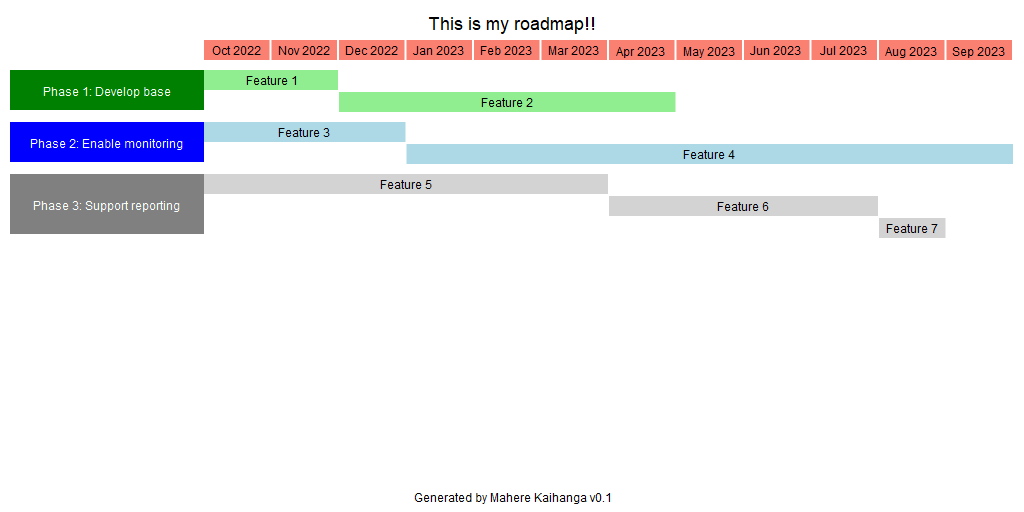
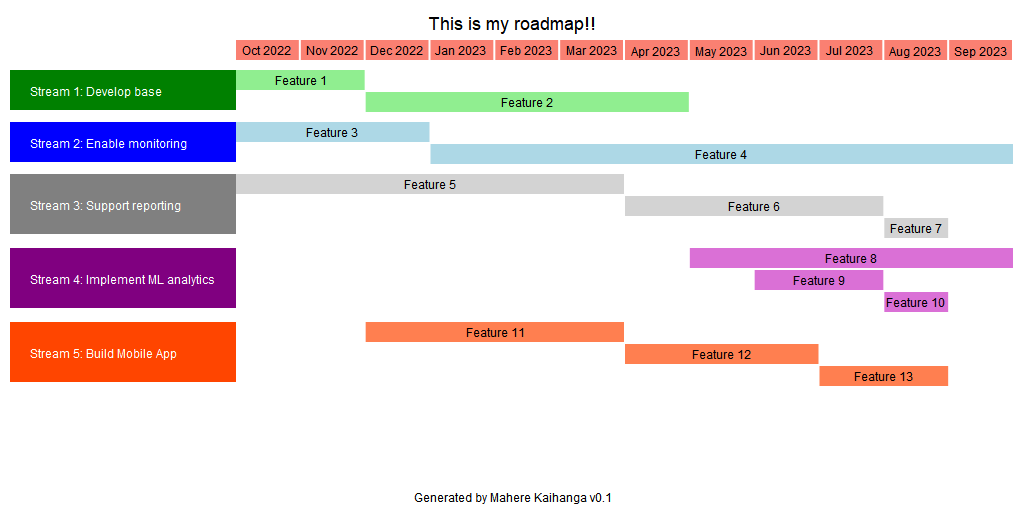
Make group text align to left by default

diff --git a/MahereKaihanga.py b/MahereKaihanga.py
@@ -188,7 +188,7 @@ class MahereKaihanga():
 
         """ To do
         Done (1) Display task text on top of bar
-        (2) Display group text as a block
+        Done (2) Display group text as a block
         (3) Show milestones
         (4) Proporsion task bar according to the start and end date
         """
@@ -204,18 +204,28 @@ if __name__ == "__main__":
     x.Title = "This is my roadmap!!"
 
     x.Tasks = [
-                {"group": "Phase 1: Develop base", "colour": "green", "tasks": [
+                {"group": "Stream 1: Develop base", "colour": "green", "tasks": [
                     {"task": "Feature 1", "start": datetime.datetime(2022, 10, 24), "end": datetime.datetime(2022, 11, 24), "colour": "lightgreen"},
                     {"task": "Feature 2", "start": datetime.datetime(2022, 12, 24), "end": datetime.datetime(2023, 4, 24), "colour": "lightgreen"}
                     ]},
-                {"group": "Phase 2: Enable monitoring", "colour": "blue", "tasks": [
+                {"group": "Stream 2: Enable monitoring", "colour": "blue", "tasks": [
                     {"task": "Feature 3", "start": datetime.datetime(2022, 4, 24), "end": datetime.datetime(2022, 12, 24), "colour": "lightblue"},
                     {"task": "Feature 4", "start": datetime.datetime(2023, 1, 24), "end": datetime.datetime(2024, 12, 24), "colour": "lightblue"}
                     ]},
-                {"group": "Phase 3: Support reporting", "colour": "grey", "tasks": [
+                {"group": "Stream 3: Support reporting", "colour": "grey", "tasks": [
                     {"task": "Feature 5", "start": datetime.datetime(2022, 10, 24), "end": datetime.datetime(2023, 3, 24), "colour": "lightgrey"},
                     {"task": "Feature 6", "start": datetime.datetime(2023, 4, 24), "end": datetime.datetime(2023, 7, 24), "colour": "lightgrey"},
                     {"task": "Feature 7", "start": datetime.datetime(2023, 8, 24), "end": datetime.datetime(2023, 8, 24), "colour": "lightgrey"}
+                ]},
+                {"group": "Stream 4: Implement ML analytics", "colour": "Purple", "tasks": [
+                    {"task": "Feature 8", "start": datetime.datetime(2023, 5, 24), "end": datetime.datetime(2023, 11, 24), "colour": "Orchid"},
+                    {"task": "Feature 9", "start": datetime.datetime(2023, 6, 24), "end": datetime.datetime(2023, 7, 24), "colour": "Orchid"},
+                    {"task": "Feature 10", "start": datetime.datetime(2023, 8, 24), "end": datetime.datetime(2023, 8, 24), "colour": "Orchid"}
+                ]},
+                {"group": "Stream 5: Build Mobile App", "colour": "OrangeRed", "tasks": [
+                    {"task": "Feature 11", "start": datetime.datetime(2022, 12, 24), "end": datetime.datetime(2023, 3, 24), "colour": "Coral"},
+                    {"task": "Feature 12", "start": datetime.datetime(2023, 4, 24), "end": datetime.datetime(2023, 6, 24), "colour": "Coral"},
+                    {"task": "Feature 13", "start": datetime.datetime(2023, 7, 24), "end": datetime.datetime(2023, 8, 24), "colour": "Coral"}
                 ]}              
             ]
     x.render("my_roadmap.png")

diff --git a/painter.py b/painter.py
@@ -68,7 +68,7 @@ class Painter():
         self.setColour(group.get("colour"))
         self.drawBox(x, y, groupTotalWidth, groupTotalHeight)
         self.setColour("White")
-        XPos, YPos = self.getDisplayTextPosision(x, y, groupTotalWidth, groupTotalHeight, groupText, "centre")
+        XPos, YPos = self.getDisplayTextPosision(x, y, groupTotalWidth, groupTotalHeight, groupText, "left")
         self.drawText(XPos, YPos, groupText)
         return lastYPos
         
@@ -86,6 +86,8 @@ class Painter():
             textPosX = (width / 2) - (textWidth / 2)
         elif alignment == "right":
             textPosX = width - textWidth
+        elif alignment == "left":
+            textPosX = x + 10
         
         textPosY = (height / 2) + (textHeight / 2)
             
